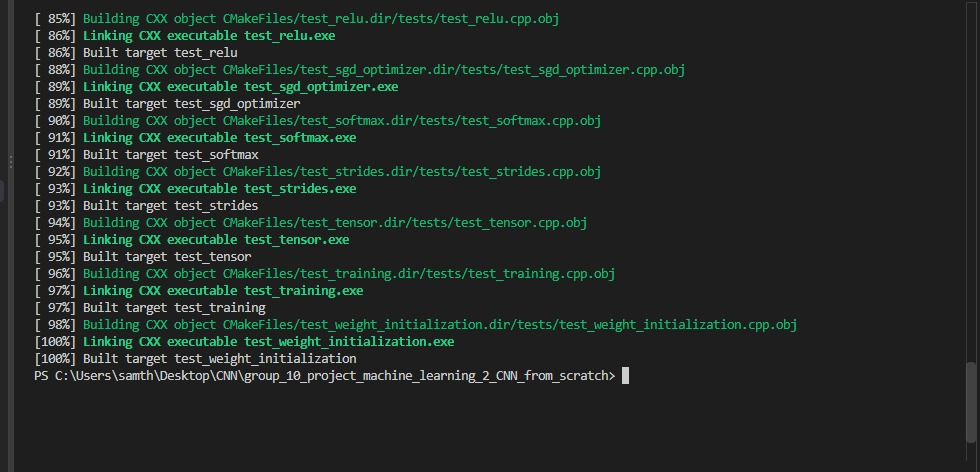
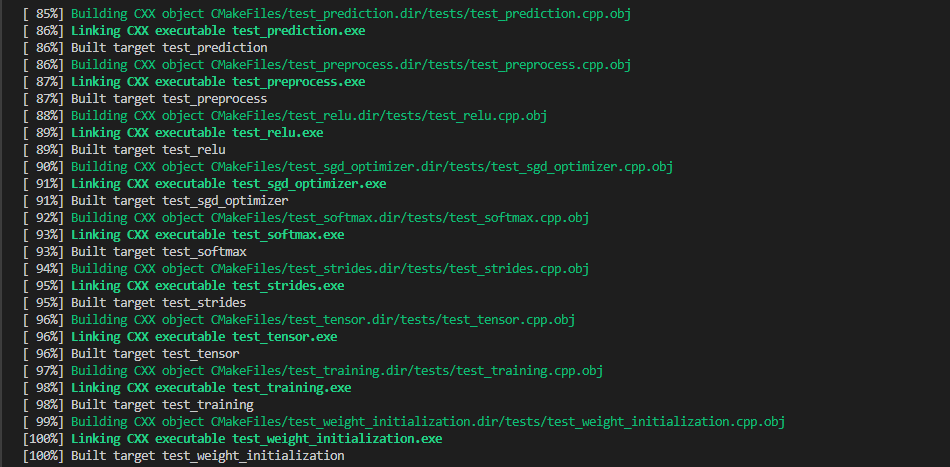
Update the final report test image

Changed region(s): [[0.0, 0.0, 0.8242, 1.0], [0.9768, 0.7495, 1.0, 0.9593]]

diff --git a/ConvolutionalNeuralNetwork/reports/Final_Project_report.md b/ConvolutionalNeuralNetwork/reports/Final_Project_report.md
@@ -126,7 +126,7 @@ A custom C++ unit testing framework was developed and integrated with CMake and 
 ### 5.3 Results
 The testing suite executes in under 2 seconds and yields a **100% pass rate (33/33 tests passed)**.
 
-![CTest 100% Pass Rate](../data/tests.png)
+![CTest 100% Pass Rate](../data/tests.jpeg)
 *(Figure 2: CTest execution results confirming 100% test success.)*
 
 ---
